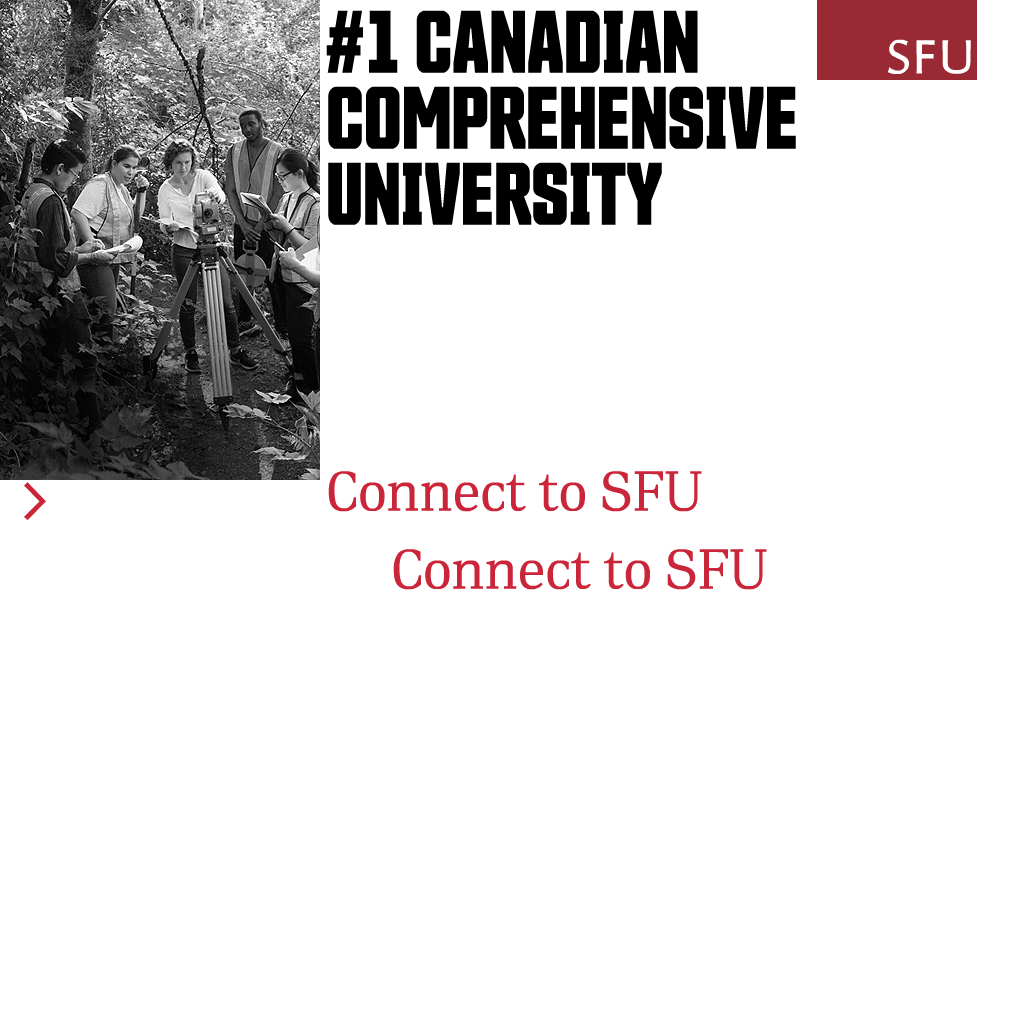
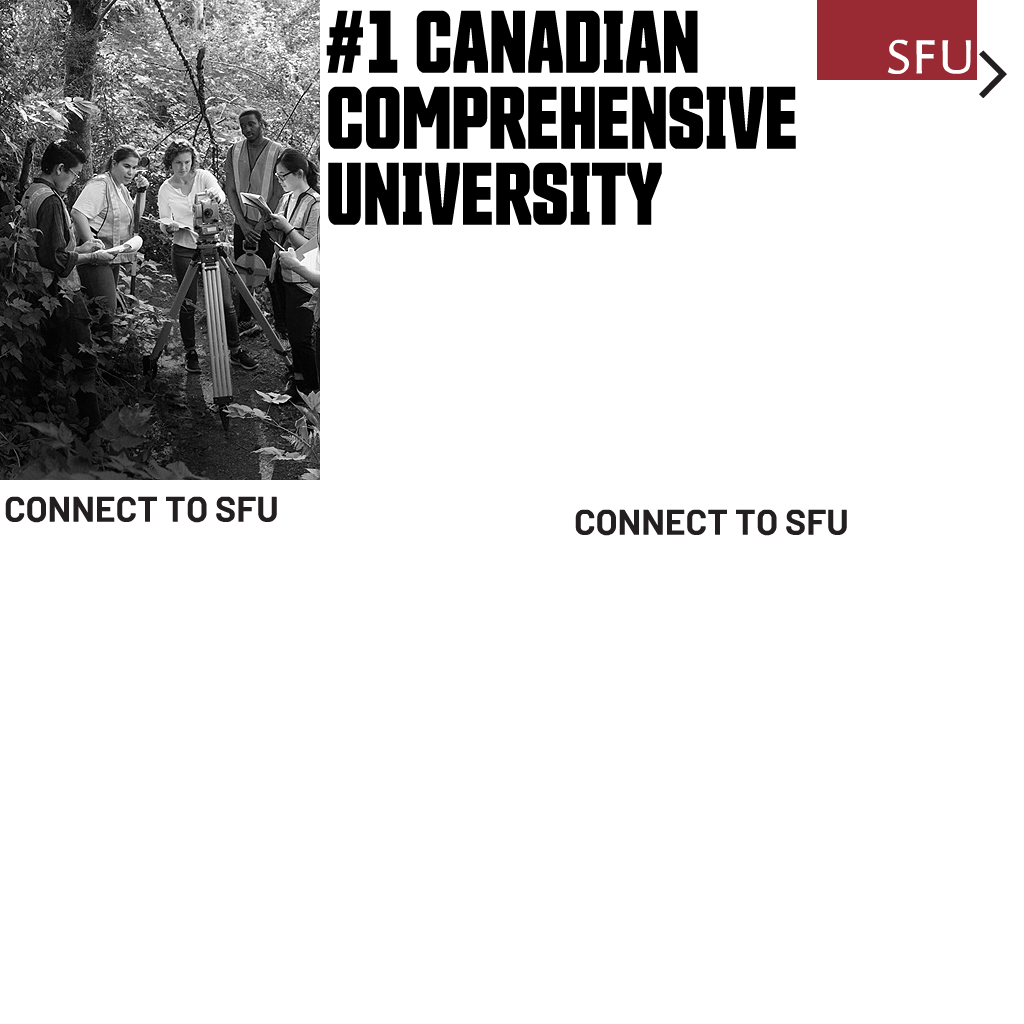
Add files via upload

Changed region(s): [[0.3125, 0.4375, 0.8438, 0.5938], [0.0, 0.4688, 0.2812, 0.5312], [0.9375, 0.0625, 1.0, 0.0938]]

diff --git a/02_See_Yourself/AD1_320x480/index.js b/02_See_Yourself/AD1_320x480/index.js
@@ -3,7 +3,7 @@
 var p; // shortcut to reference prototypes
 var lib={};var ss={};var img={};
 lib.ssMetadata = [
-		{name:"index_atlas_1", frames: [[322,376,484,76],[0,610,416,39],[322,0,493,246],[322,248,556,126],[817,0,160,80],[322,454,385,76],[0,532,385,76],[0,482,22,38],[24,482,22,38],[387,532,385,76],[0,0,320,480]]}
+		{name:"index_atlas_1", frames: [[322,376,484,76],[322,454,416,39],[322,0,493,246],[322,248,556,126],[817,0,160,80],[0,482,283,51],[285,495,283,51],[979,0,28,48],[570,495,283,51],[979,50,28,48],[0,0,320,480]]}
 ];
 
 
@@ -34,7 +34,7 @@ lib.ssMetadata = [
 
 
 
-(lib.CachedBmp_27 = function() {
+(lib.CachedBmp_33 = function() {
 	this.initialize(ss["index_atlas_1"]);
 	this.gotoAndStop(1);
 }).prototype = p = new cjs.Sprite();
@@ -48,7 +48,7 @@ lib.ssMetadata = [
 
 
 
-(lib.CachedBmp_25 = function() {
+(lib.CachedBmp_30 = function() {
 	this.initialize(ss["index_atlas_1"]);
 	this.gotoAndStop(3);
 }).prototype = p = new cjs.Sprite();
@@ -62,35 +62,35 @@ lib.ssMetadata = [
 
 
 
-(lib.CachedBmp_22 = function() {
+(lib.CachedBmp_39 = function() {
 	this.initialize(ss["index_atlas_1"]);
 	this.gotoAndStop(5);
 }).prototype = p = new cjs.Sprite();
 
 
 
-(lib.CachedBmp_21 = function() {
+(lib.CachedBmp_37 = function() {
 	this.initialize(ss["index_atlas_1"]);
 	this.gotoAndStop(6);
 }).prototype = p = new cjs.Sprite();
 
 
 
-(lib.CachedBmp_20 = function() {
+(lib.CachedBmp_36 = function() {
 	this.initialize(ss["index_atlas_1"]);
 	this.gotoAndStop(7);
 }).prototype = p = new cjs.Sprite();
 
 
 
-(lib.CachedBmp_23 = function() {
+(lib.CachedBmp_35 = function() {
 	this.initialize(ss["index_atlas_1"]);
 	this.gotoAndStop(8);
 }).prototype = p = new cjs.Sprite();
 
 
 
-(lib.CachedBmp_18 = function() {
+(lib.CachedBmp_38 = function() {
 	this.initialize(ss["index_atlas_1"]);
 	this.gotoAndStop(9);
 }).prototype = p = new cjs.Sprite();
@@ -104,7 +104,7 @@ lib.ssMetadata = [
 
 
 
-(lib.g_txt03 = function(mode,startPosition,loop,reversed) {
+(lib.g_txt03AD1 = function(mode,startPosition,loop,reversed) {
 if (loop == null) { loop = true; }
 if (reversed == null) { reversed = false; }
 	var props = new Object();
@@ -127,30 +127,7 @@ if (reversed == null) { reversed = false; }
 p.nominalBounds = new cjs.Rectangle(0,0,242,38);
 
 
-(lib.g_txt022 = function(mode,startPosition,loop,reversed) {
-if (loop == null) { loop = true; }
-if (reversed == null) { reversed = false; }
-	var props = new Object();
-	props.mode = mode;
-	props.startPosition = startPosition;
-	props.labels = {};
-	props.loop = loop;
-	props.reversed = reversed;
-	cjs.MovieClip.apply(this,[props]);
-
-	// Layer_1
-	this.instance = new lib.CachedBmp_27();
-	this.instance.setTransform(0,0,0.5,0.5);
-
-	this.timeline.addTween(cjs.Tween.get(this.instance).wait(1));
-
-	this._renderFirstFrame();
-
-}).prototype = p = new cjs.MovieClip();
-p.nominalBounds = new cjs.Rectangle(0,0,208,19.5);
-
-
-(lib.g_txt02 = function(mode,startPosition,loop,reversed) {
+(lib.g_txt02AD1 = function(mode,startPosition,loop,reversed) {
 if (loop == null) { loop = true; }
 if (reversed == null) { reversed = false; }
 	var props = new Object();
@@ -174,13 +151,19 @@ if (reversed == null) { reversed = false; }
 
 	this.timeline.addTween(cjs.Tween.get(this.shape).wait(1));
 
+	// Small_Text
+	this.instance_1 = new lib.CachedBmp_33();
+	this.instance_1.setTransform(2,167.5,0.5,0.5);
+
+	this.timeline.addTween(cjs.Tween.get(this.instance_1).wait(1));
+
 	this._renderFirstFrame();
 
 }).prototype = p = new cjs.MovieClip();
-p.nominalBounds = new cjs.Rectangle(-24,23.3,270.5,125.50000000000001);
+p.nominalBounds = new cjs.Rectangle(-24,23.3,270.5,163.7);
 
 
-(lib.g_txt01 = function(mode,startPosition,loop,reversed) {
+(lib.g_txt01AD1 = function(mode,startPosition,loop,reversed) {
 if (loop == null) { loop = true; }
 if (reversed == null) { reversed = false; }
 	var props = new Object();
@@ -192,7 +175,7 @@ if (reversed == null) { reversed = false; }
 	cjs.MovieClip.apply(this,[props]);
 
 	// Text
-	this.instance = new lib.CachedBmp_25();
+	this.instance = new lib.CachedBmp_30();
 	this.instance.setTransform(0,0,0.5,0.5);
 
 	this.timeline.addTween(cjs.Tween.get(this.instance).wait(1));
@@ -261,39 +244,39 @@ if (reversed == null) { reversed = false; }
 	props.reversed = reversed;
 	cjs.MovieClip.apply(this,[props]);
 
-	// TEXT
-	this.instance = new lib.CachedBmp_23();
-	this.instance.setTransform(209.8,10.7,0.5,0.5);
+	// Text
+	this.instance = new lib.CachedBmp_35();
+	this.instance.setTransform(34.85,7.95,0.5,0.5);
 
-	this.instance_1 = new lib.CachedBmp_18();
-	this.instance_1.setTransform(7.45,1.15,0.5,0.5);
+	this.instance_1 = new lib.CachedBmp_38();
+	this.instance_1.setTransform(13.5,8.6,0.5,0.5);
 
-	this.instance_2 = new lib.CachedBmp_21();
-	this.instance_2.setTransform(7.45,1.15,0.5,0.5);
+	this.instance_2 = new lib.CachedBmp_37();
+	this.instance_2.setTransform(34.85,7.95,0.5,0.5);
 
-	this.instance_3 = new lib.CachedBmp_20();
-	this.instance_3.setTransform(209.8,10.7,0.5,0.5);
+	this.instance_3 = new lib.CachedBmp_36();
+	this.instance_3.setTransform(13.5,8.6,0.5,0.5);
 
-	this.instance_4 = new lib.CachedBmp_22();
-	this.instance_4.setTransform(7.45,1.15,0.5,0.5);
+	this.instance_4 = new lib.CachedBmp_39();
+	this.instance_4.setTransform(34.85,7.95,0.5,0.5);
 
-	this.timeline.addTween(cjs.Tween.get({}).to({state:[{t:this.instance_1},{t:this.instance}]}).to({state:[{t:this.instance_3},{t:this.instance_2}]},1).to({state:[{t:this.instance_4},{t:this.instance}]},1).to({state:[]},1).wait(1));
+	this.timeline.addTween(cjs.Tween.get({}).to({state:[{t:this.instance_1},{t:this.instance}]}).to({state:[{t:this.instance_3},{t:this.instance_2}]},1).to({state:[{t:this.instance_1},{t:this.instance_4}]},1).to({state:[]},1).wait(1));
 
-	// BG
+	// Bg
 	this.shape = new cjs.Shape();
-	this.shape.graphics.f("#FFFFFF").s().p("AyJDOIAAmbMAkTAAAIAAGbg");
-	this.shape.setTransform(116.175,20.625);
+	this.shape.graphics.f("#FFFFFF").s().p("AueDNIAAmZIc9AAIAAGZg");
+	this.shape.setTransform(92.725,20.475);
 
 	this.shape_1 = new cjs.Shape();
-	this.shape_1.graphics.f().s("#FFFFFF").ss(1,1,1).p("ASKDOMgkTAAAIAAmbMAkTAAAg");
-	this.shape_1.setTransform(116.175,20.625);
+	this.shape_1.graphics.f().s("#FFFFFF").ss(1,1,1).p("AOfDNI89AAIAAmZIc9AAg");
+	this.shape_1.setTransform(92.725,20.475);
 
 	this.timeline.addTween(cjs.Tween.get({}).to({state:[{t:this.shape}]}).to({state:[{t:this.shape_1}]},1).to({state:[{t:this.shape}]},1).wait(2));
 
 	this._renderFirstFrame();
 
 }).prototype = p = new cjs.MovieClip();
-p.nominalBounds = new cjs.Rectangle(-1,-1,234.4,43.3);
+p.nominalBounds = new cjs.Rectangle(-1,-1,187.5,43);
 
 
 (lib.gpic1 = function(mode,startPosition,loop,reversed) {
@@ -367,10 +350,10 @@ if (reversed == null) { reversed = false; }
 	var mask_graphics_101 = new cjs.Graphics().p("EgY8AlgMAAAhK/MAx5AAAMAAABK/g");
 	var mask_graphics_102 = new cjs.Graphics().p("EgY/AlgMAAAhK/MAx/AAAMAAABK/g");
 
-	this.timeline.addTween(cjs.Tween.get(mask).to({graphics:null,x:0,y:0}).wait(79).to({graphics:mask_graphics_79,x:325,y:240}).wait(1).to({graphics:mask_graphics_80,x:310.975,y:240}).wait(1).to({graphics:mask_graphics_81,x:297.55,y:240}).wait(1).to({graphics:mask_graphics_82,x:284.75,y:240}).wait(1).to({graphics:mask_graphics_83,x:272.575,y:240}).wait(1).to({graphics:mask_graphics_84,x:261.05,y:240}).wait(1).to({graphics:mask_graphics_85,x:250.125,y:240}).wait(1).to({graphics:mask_graphics_86,x:239.85,y:240}).wait(1).to({graphics:mask_graphics_87,x:230.175,y:240}).wait(1).to({graphics:mask_graphics_88,x:221.125,y:240}).wait(1).to({graphics:mask_graphics_89,x:212.725,y:240}).wait(1).to({graphics:mask_graphics_90,x:204.9,y:240}).wait(1).to({graphics:mask_graphics_91,x:197.75,y:240}).wait(1).to({graphics:mask_graphics_92,x:191.2,y:240}).wait(1).to({graphics:mask_graphics_93,x:185.275,y:240}).wait(1).to({graphics:mask_graphics_94,x:179.95,y:240}).wait(1).to({graphics:mask_graphics_95,x:175.3,y:240}).wait(1).to({graphics:mask_graphics_96,x:171.25,y:240}).wait(1).to({graphics:mask_graphics_97,x:167.775,y:240}).wait(1).to({graphics:mask_graphics_98,x:165,y:240}).wait(1).to({graphics:mask_graphics_99,x:162.8,y:240}).wait(1).to({graphics:mask_graphics_100,x:161.25,y:240}).wait(1).to({graphics:mask_graphics_101,x:160.3,y:240}).wait(1).to({graphics:mask_graphics_102,x:160,y:240}).wait(215));
+	this.timeline.addTween(cjs.Tween.get(mask).to({graphics:null,x:0,y:0}).wait(79).to({graphics:mask_graphics_79,x:325,y:240}).wait(1).to({graphics:mask_graphics_80,x:310.975,y:240}).wait(1).to({graphics:mask_graphics_81,x:297.55,y:240}).wait(1).to({graphics:mask_graphics_82,x:284.75,y:240}).wait(1).to({graphics:mask_graphics_83,x:272.575,y:240}).wait(1).to({graphics:mask_graphics_84,x:261.05,y:240}).wait(1).to({graphics:mask_graphics_85,x:250.125,y:240}).wait(1).to({graphics:mask_graphics_86,x:239.85,y:240}).wait(1).to({graphics:mask_graphics_87,x:230.175,y:240}).wait(1).to({graphics:mask_graphics_88,x:221.125,y:240}).wait(1).to({graphics:mask_graphics_89,x:212.725,y:240}).wait(1).to({graphics:mask_graphics_90,x:204.9,y:240}).wait(1).to({graphics:mask_graphics_91,x:197.75,y:240}).wait(1).to({graphics:mask_graphics_92,x:191.2,y:240}).wait(1).to({graphics:mask_graphics_93,x:185.275,y:240}).wait(1).to({graphics:mask_graphics_94,x:179.95,y:240}).wait(1).to({graphics:mask_graphics_95,x:175.3,y:240}).wait(1).to({graphics:mask_graphics_96,x:171.25,y:240}).wait(1).to({graphics:mask_graphics_97,x:167.775,y:240}).wait(1).to({graphics:mask_graphics_98,x:165,y:240}).wait(1).to({graphics:mask_graphics_99,x:162.8,y:240}).wait(1).to({graphics:mask_graphics_100,x:161.25,y:240}).wait(1).to({graphics:mask_graphics_101,x:160.3,y:240}).wait(1).to({graphics:mask_graphics_102,x:160,y:240}).wait(270));
 
 	// text_02
-	this.instance = new lib.g_txt03("synched",0);
+	this.instance = new lib.g_txt03AD1("synched",0);
 	this.instance.setTransform(32.05,200.5);
 	this.instance.alpha = 0;
 	this.instance._off = true;
@@ -381,7 +364,7 @@ if (reversed == null) { reversed = false; }
 		maskedShapeInstanceList[shapedInstanceItr].mask = mask;
 	}
 
-	this.timeline.addTween(cjs.Tween.get(this.instance).wait(228).to({_off:false},0).to({alpha:1},28,cjs.Ease.get(1)).wait(61));
+	this.timeline.addTween(cjs.Tween.get(this.instance).wait(228).to({_off:false},0).to({alpha:1},28,cjs.Ease.get(1)).wait(116));
 
 	// Btn
 	this.instance_1 = new lib.btn_CTA();
@@ -396,10 +379,10 @@ if (reversed == null) { reversed = false; }
 		maskedShapeInstanceList[shapedInstanceItr].mask = mask;
 	}
 
-	this.timeline.addTween(cjs.Tween.get(this.instance_1).wait(241).to({_off:false},0).to({x:107.5,alpha:1},22,cjs.Ease.get(0.9)).wait(54));
+	this.timeline.addTween(cjs.Tween.get(this.instance_1).wait(276).to({_off:false},0).to({x:107.5,alpha:1},22,cjs.Ease.get(0.9)).wait(74));
 
-	// text_01
-	this.instance_2 = new lib.g_txt02("synched",0);
+	// text_02__Ad01
+	this.instance_2 = new lib.g_txt02AD1("synched",0);
 	this.instance_2.setTransform(-313.45,198.5,1,1,0,0,0,-66.5,28);
 	this.instance_2._off = true;
 
@@ -409,11 +392,11 @@ if (reversed == null) { reversed = false; }
 		maskedShapeInstanceList[shapedInstanceItr].mask = mask;
 	}
 
-	this.timeline.addTween(cjs.Tween.get(this.instance_2).wait(106).to({_off:false},0).to({x:-42.5},25,cjs.Ease.get(1)).wait(70).to({startPosition:0},0).to({x:-313.45},21,cjs.Ease.get(1)).to({_off:true},3).wait(92));
+	this.timeline.addTween(cjs.Tween.get(this.instance_2).wait(79).to({_off:false},0).to({x:-42.5},25,cjs.Ease.get(1)).wait(97).to({startPosition:0},0).to({x:-313.45},21,cjs.Ease.get(1)).to({_off:true},3).wait(147));
 
-	// Small_Text
-	this.instance_3 = new lib.g_txt022("synched",0);
-	this.instance_3.setTransform(130.1,347.55,1,1,0,0,0,104,9.7);
+	// Logo
+	this.instance_3 = new lib.g_SFULogo("synched",0);
+	this.instance_3.setTransform(0.1,108.1,1,1,0,0,0,0.1,0.1);
 	this.instance_3._off = true;
 
 	var maskedShapeInstanceList = [this.instance_3];
@@ -422,20 +405,7 @@ if (reversed == null) { reversed = false; }
 		maskedShapeInstanceList[shapedInstanceItr].mask = mask;
 	}
 
-	this.timeline.addTween(cjs.Tween.get(this.instance_3).wait(79).to({_off:false},0).wait(122).to({startPosition:0},0).to({x:-150.9},22,cjs.Ease.get(0.8)).to({_off:true},2).wait(92));
-
-	// Logo
-	this.instance_4 = new lib.g_SFULogo("synched",0);
-	this.instance_4.setTransform(0.1,108.1,1,1,0,0,0,0.1,0.1);
-	this.instance_4._off = true;
-
-	var maskedShapeInstanceList = [this.instance_4];
-
-	for(var shapedInstanceItr = 0; shapedInstanceItr < maskedShapeInstanceList.length; shapedInstanceItr++) {
-		maskedShapeInstanceList[shapedInstanceItr].mask = mask;
-	}
-
-	this.timeline.addTween(cjs.Tween.get(this.instance_4).wait(79).to({_off:false},0).wait(238));
+	this.timeline.addTween(cjs.Tween.get(this.instance_3).wait(79).to({_off:false},0).wait(293));
 
 	// Red_Bg
 	this.shape = new cjs.Shape();
@@ -534,27 +504,27 @@ if (reversed == null) { reversed = false; }
 	this.shape_23.graphics.f("#CC0633").s().p("EgY/AlgMAAAhK/MAx/AAAMAAABK/g");
 	this.shape_23.setTransform(160,240);
 
-	this.timeline.addTween(cjs.Tween.get({}).to({state:[]}).to({state:[{t:this.shape}]},79).to({state:[{t:this.shape_1}]},1).to({state:[{t:this.shape_2}]},1).to({state:[{t:this.shape_3}]},1).to({state:[{t:this.shape_4}]},1).to({state:[{t:this.shape_5}]},1).to({state:[{t:this.shape_6}]},1).to({state:[{t:this.shape_7}]},1).to({state:[{t:this.shape_8}]},1).to({state:[{t:this.shape_9}]},1).to({state:[{t:this.shape_10}]},1).to({state:[{t:this.shape_11}]},1).to({state:[{t:this.shape_12}]},1).to({state:[{t:this.shape_13}]},1).to({state:[{t:this.shape_14}]},1).to({state:[{t:this.shape_15}]},1).to({state:[{t:this.shape_16}]},1).to({state:[{t:this.shape_17}]},1).to({state:[{t:this.shape_18}]},1).to({state:[{t:this.shape_19}]},1).to({state:[{t:this.shape_20}]},1).to({state:[{t:this.shape_21}]},1).to({state:[{t:this.shape_22}]},1).to({state:[{t:this.shape_23}]},1).wait(215));
+	this.timeline.addTween(cjs.Tween.get({}).to({state:[]}).to({state:[{t:this.shape}]},79).to({state:[{t:this.shape_1}]},1).to({state:[{t:this.shape_2}]},1).to({state:[{t:this.shape_3}]},1).to({state:[{t:this.shape_4}]},1).to({state:[{t:this.shape_5}]},1).to({state:[{t:this.shape_6}]},1).to({state:[{t:this.shape_7}]},1).to({state:[{t:this.shape_8}]},1).to({state:[{t:this.shape_9}]},1).to({state:[{t:this.shape_10}]},1).to({state:[{t:this.shape_11}]},1).to({state:[{t:this.shape_12}]},1).to({state:[{t:this.shape_13}]},1).to({state:[{t:this.shape_14}]},1).to({state:[{t:this.shape_15}]},1).to({state:[{t:this.shape_16}]},1).to({state:[{t:this.shape_17}]},1).to({state:[{t:this.shape_18}]},1).to({state:[{t:this.shape_19}]},1).to({state:[{t:this.shape_20}]},1).to({state:[{t:this.shape_21}]},1).to({state:[{t:this.shape_22}]},1).to({state:[{t:this.shape_23}]},1).wait(270));
 
 	// Text_01___AD1
-	this.instance_5 = new lib.g_txt01("synched",0);
-	this.instance_5.setTransform(-342.2,386.75,1,1,0,0,0,-66.5,28);
-	this.instance_5._off = true;
+	this.instance_4 = new lib.g_txt01AD1("single",0);
+	this.instance_4.setTransform(-342.2,386.75,1,1,0,0,0,-66.5,28);
+	this.instance_4._off = true;
 
-	this.timeline.addTween(cjs.Tween.get(this.instance_5).wait(11).to({_off:false},0).to({x:-69.45},21,cjs.Ease.get(1)).wait(71).to({startPosition:0},0).to({_off:true},1).wait(213));
+	this.timeline.addTween(cjs.Tween.get(this.instance_4).wait(11).to({_off:false},0).to({x:-69.45},21,cjs.Ease.get(1)).to({_off:true},72).wait(268));
 
 	// Photo_AD1
-	this.instance_6 = new lib.gpic1("single",0);
-	var instance_6Filter_1 = new cjs.ColorFilter(1,1,1,1,255,255,255,0);
-	this.instance_6.filters = [instance_6Filter_1];
-	this.instance_6.cache(-2,-2,325,484);
+	this.instance_5 = new lib.gpic1("single",0);
+	var instance_5Filter_1 = new cjs.ColorFilter(1,1,1,1,255,255,255,0);
+	this.instance_5.filters = [instance_5Filter_1];
+	this.instance_5.cache(-2,-2,325,484);
 
-	this.timeline.addTween(cjs.Tween.get(this.instance_6).to({startPosition:0},18,cjs.Ease.get(1)).to({_off:true},86).wait(213));
-	this.timeline.addTween(cjs.Tween.get(instance_6Filter_1).to(new cjs.ColorFilter(1,1,1,1,0,0,0,0), 18,cjs.Ease.get(1)).wait(213));
+	this.timeline.addTween(cjs.Tween.get(this.instance_5).to({startPosition:0},18,cjs.Ease.get(1)).to({_off:true},86).wait(268));
+	this.timeline.addTween(cjs.Tween.get(instance_5Filter_1).to(new cjs.ColorFilter(1,1,1,1,0,0,0,0), 18,cjs.Ease.get(1)).wait(268));
 
 	this.filterCacheList = [];
-	this.filterCacheList.push({instance: this.instance_6, startFrame:1, endFrame:18, x:-2, y:-2, w:325, h:484});
-	this.filterCacheList.push({instance: this.instance_6, startFrame:0, endFrame:0, x:-2, y:-2, w:325, h:484});
+	this.filterCacheList.push({instance: this.instance_5, startFrame:1, endFrame:18, x:-2, y:-2, w:325, h:484});
+	this.filterCacheList.push({instance: this.instance_5, startFrame:0, endFrame:0, x:-2, y:-2, w:325, h:484});
 	this._renderFirstFrame();
 
 }).prototype = p = new lib.AnMovieClip();
@@ -568,7 +538,7 @@ lib.properties = {
 	color: "#FFFFFF",
 	opacity: 1.00,
 	manifest: [
-		{src:"images/index_atlas_1.png?1707862236540", id:"index_atlas_1"}
+		{src:"images/index_atlas_1.png", id:"index_atlas_1"}
 	],
 	preloads: []
 };

diff --git a/02_See_Yourself/AD1_320x480/index.html b/02_See_Yourself/AD1_320x480/index.html
@@ -24,7 +24,7 @@
   }
 </style>
 <script src="https://code.createjs.com/1.0.0/createjs.min.js"></script>
-<script src="index.js?1707862236573"></script>
+<script src="index.js"></script>
 <script>
 var canvas, stage, exportRoot, anim_container, dom_overlay_container, fnStartAnimation;
 function init() {
